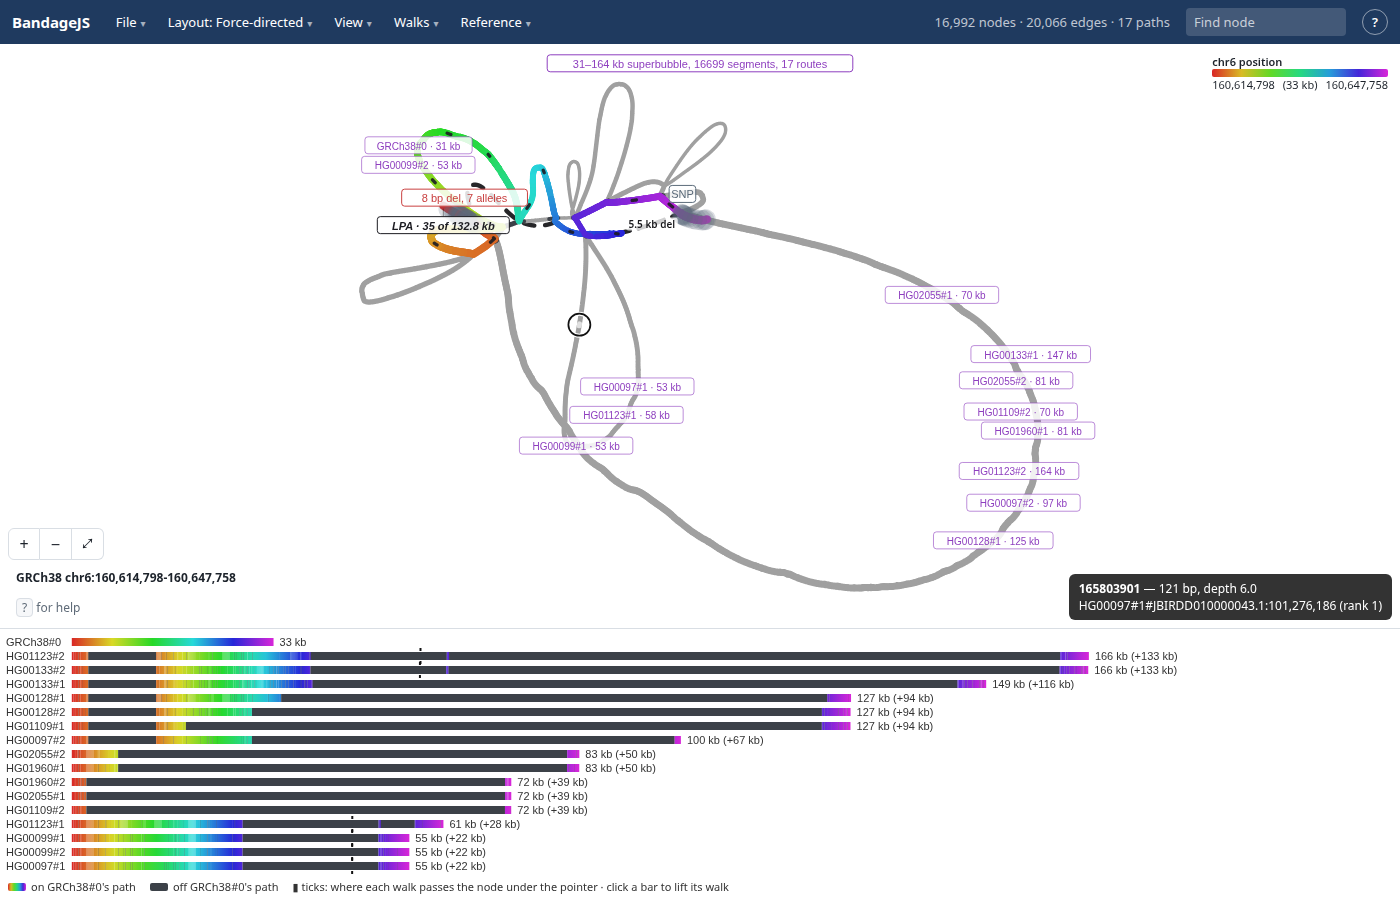
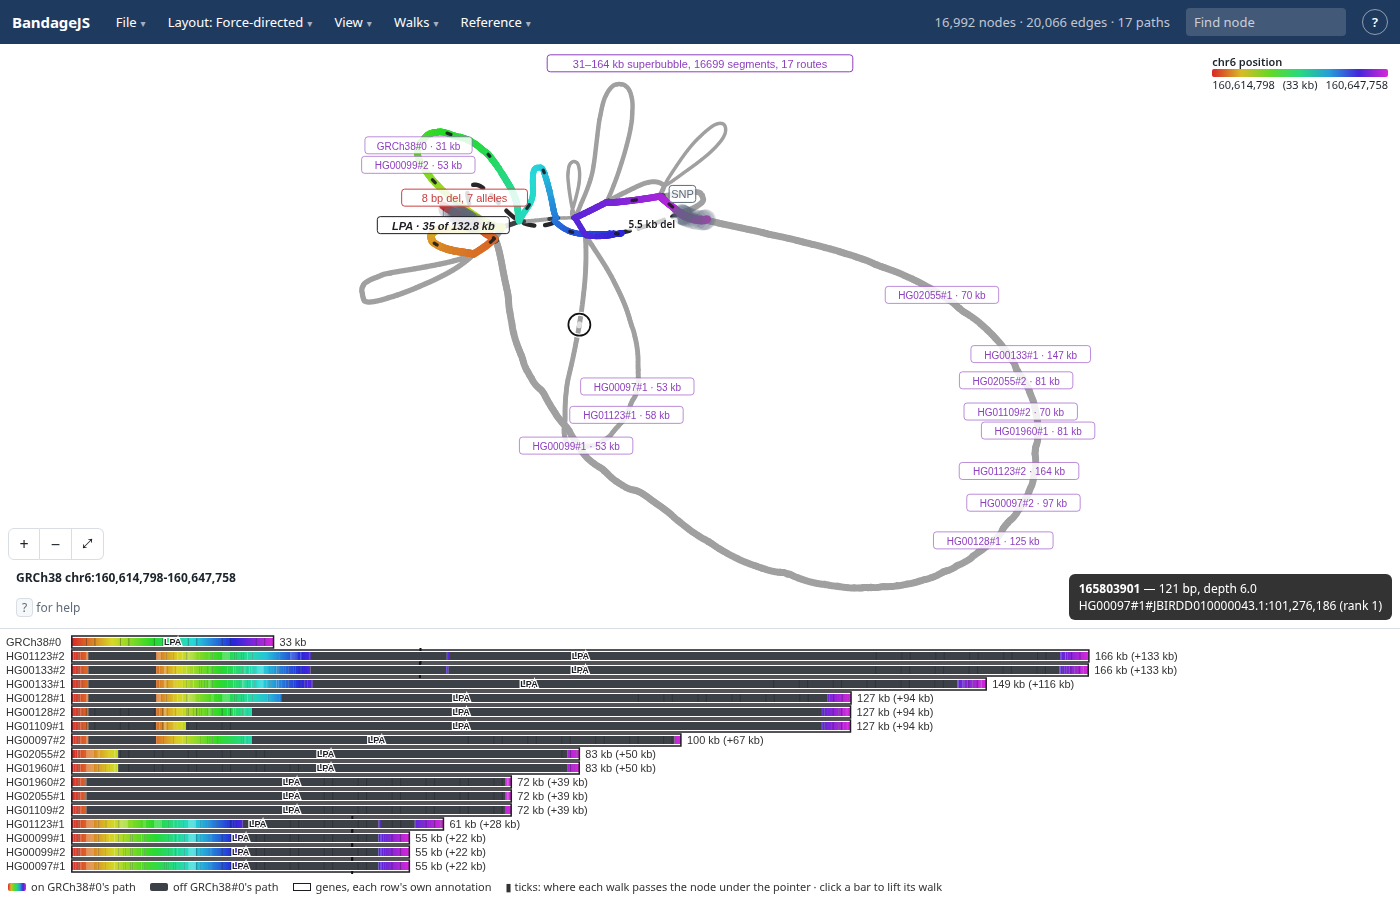
Walk rows under the graph box each haplotype's genes
The strip reads genes for its rows as the walk-rows layout does, and its
key notes where rows are too crowded to box them. Strip row picks in the
README script and e2e helper skip gene rects. kiv2_strip reshot with LPA.

Needs the core release with StripFrame.boxesGenes.

Changed region(s): [[0.0307, 0.6844, 0.7986, 0.9956]]

diff --git a/src/walkStrip.ts b/src/walkStrip.ts
@@ -12,17 +12,19 @@ import {
   walkStripFrame,
 } from '@jbrowse/bandage-core'
 
-import { memo } from './derived'
+import { memo, rowGenesOf } from './derived'
 import { svgDom } from './elDom'
 import { walkRowsKeyHtml } from './overlays'
-import { axis, current, facts, state, stripRows } from './state'
+import { axis, current, facts, settings, state, stripRows } from './state'
 import { ui } from './ui'
 import { onDraw, scheduleDraw } from './view'
 import { toggleWalk } from './walks'
 
 import type {
+  GeneGaps,
   Graph,
   GraphNode,
+  RowGene,
   StripFrame,
   WalkLayer,
   WalkRows,
@@ -53,10 +55,20 @@ const frameOf = memo((bars: WalkRows, width: number, maxHeight: number) => {
 const rampInterval = (ramp: Ramp) =>
   ramp && { start: ramp.start, end: ramp.start + ramp.span }
 
-const barsOf = memo((bars: WalkRows, frame: StripFrame, ramp: Ramp) =>
-  svgDom(
-    walkRowsTree(bars, frame, { ramp: rampInterval(ramp), idPrefix: 'strip' }),
-  ),
+const barsOf = memo(
+  (
+    bars: WalkRows,
+    frame: StripFrame,
+    ramp: Ramp,
+    rowGenes: Map<string, RowGene[]> | undefined,
+  ) =>
+    svgDom(
+      walkRowsTree(bars, frame, {
+        ramp: rampInterval(ramp),
+        rowGenes,
+        idPrefix: 'strip',
+      }),
+    ),
 )
 
 const marksOf = memo(
@@ -83,15 +95,21 @@ const labelsOf = memo(
 )
 
 const keyOf = memo(
-  (bars: WalkRows, ramp: Ramp) =>
+  (bars: WalkRows, ramp: Ramp, genes: GeneGaps | undefined) =>
     walkRowsKeyHtml(
       walkRowsKey(bars, {
         ramp: rampInterval(ramp),
         rampCss: RAMP_GRADIENT_CSS,
+        genes,
       }),
     ) +
     '<span>▮ ticks: where each walk passes the node under the pointer · click a bar to lift its walk</span>',
 )
+
+function geneNote(f: StripFrame, rowGenes?: Map<string, RowGene[]>) {
+  const note = rowGenes?.size ? state.walkGeneNote : undefined
+  return note && !f.boxesGenes ? { ...note, crowded: true } : note
+}
 
 function frame(bars: WalkRows) {
   return frameOf(
@@ -168,8 +186,11 @@ function drawStrip() {
   const f = frame(bars)
   const ramp = current().ramp
   const id = state.hoveredNode ?? state.selectedNode
+  const rowGenes = settings.showGenes
+    ? rowGenesOf(bars, state.genes, state.walkGenes)
+    : undefined
   const next = {
-    bars: barsOf(bars, f, ramp),
+    bars: barsOf(bars, f, ramp, rowGenes),
     marks: marksOf(
       bars,
       f,
@@ -177,7 +198,7 @@ function drawStrip() {
       id === null ? undefined : facts().nodeById.get(id),
     ),
     labels: labelsOf(bars, f, state.walkLayers),
-    key: keyOf(bars, ramp),
+    key: keyOf(bars, ramp, geneNote(f, rowGenes)),
     locator,
   }
   ui.stripSvg.setAttribute('width', String(f.width))

diff --git a/test/e2e/genes.spec.ts b/test/e2e/genes.spec.ts
@@ -131,24 +131,27 @@ test('RefSeq genes pin to the backbone of the LPA graph', async ({
   expect(geneRequests.some(u => u.endsWith('.csi'))).toBe(true)
 })
 
+// GRCh38 through LPA, and HG00099#1 through the one gene on its CTGX
+const HAPLOTYPE_GFA = [
+  'S 1 AAAAAAAAAA',
+  'S 2 CCCCCCCCCC',
+  'S 3 GGGGGGGGGG',
+  'S 4 TTTTTTTTTTTTTTT',
+  'L 1 + 2 + 0M',
+  'L 2 + 3 + 0M',
+  'L 1 + 4 + 0M',
+  'L 4 + 3 + 0M',
+  'W GRCh38 0 chr6 160560000 160560030 >1>2>3',
+  'W HG00099 1 CTGX 1000 1035 >1>4>3',
+]
+
 test("walk rows draw each haplotype's genes from its own assembly", async ({
   page,
 }) => {
   await openExampleText(
     page,
     'haplotype.gfa',
-    [
-      'S 1 AAAAAAAAAA',
-      'S 2 CCCCCCCCCC',
-      'S 3 GGGGGGGGGG',
-      'S 4 TTTTTTTTTTTTTTT',
-      'L 1 + 2 + 0M',
-      'L 2 + 3 + 0M',
-      'L 1 + 4 + 0M',
-      'L 4 + 3 + 0M',
-      'W GRCh38 0 chr6 160560000 160560030 >1>2>3',
-      'W HG00099 1 CTGX 1000 1035 >1>4>3',
-    ],
+    HAPLOTYPE_GFA,
     undefined,
     '&layout=walkrows',
   )
@@ -185,6 +188,28 @@ test("walk rows draw each haplotype's genes from its own assembly", async ({
   await page.keyboard.press('Escape')
   await expect(info).toBeHidden()
 
+  await (await viewItem(page, /Genes/)).click()
+  await expect(rowGenes).toHaveCount(0)
+})
+
+test("walk rows under the graph box each haplotype's genes", async ({
+  page,
+}) => {
+  await openExampleText(
+    page,
+    'haplotype.gfa',
+    HAPLOTYPE_GFA,
+    undefined,
+    '&layout=force',
+  )
+  await waitForDrawing(page, '4 nodes')
+  await (await viewItem(page, /^Walk rows under the graph/)).click()
+  await page.keyboard.press('Escape')
+  const rowGenes = page.locator('#strip-bars .row-gene')
+  await expect(rowGenes.locator('title')).toHaveText(['LPA', 'HAPGENE'])
+  await expect(page.locator('#strip-key')).toContainText(
+    "genes, each row's own annotation",
+  )
   await (await viewItem(page, /Genes/)).click()
   await expect(rowGenes).toHaveCount(0)
 })

diff --git a/src/derived.ts b/src/derived.ts
@@ -27,6 +27,7 @@ import type {
   NodeWidth,
   WalkLayer,
   WalkRow,
+  WalkRows,
 } from '@jbrowse/bandage-core'
 
 export const CONTIG_THICKNESS = 6
@@ -94,6 +95,27 @@ function onRow(row: WalkRow, genes: GeneModel[]) {
   )
 }
 
+// Each row's genes along its bar, as walk rows or the strip draws them: the
+// reference row's from the backbone's genes, the others' from their own
+export const rowGenesOf = memo(
+  (
+    bars: WalkRows | undefined,
+    genes: GeneModel[] | undefined,
+    walkGenes: Map<string, GeneModel[]> | undefined,
+  ) =>
+    bars
+      ? placeRowGenes(
+          [bars.reference, ...bars.rows],
+          new Map([
+            ...(walkGenes ?? []),
+            ...(genes
+              ? [[bars.reference.name, onRow(bars.reference, genes)] as const]
+              : []),
+          ]),
+        )
+      : undefined,
+)
+
 // What a layout draws besides its nodes, recomputed when the layout, its
 // positions or a setting it reads changes rather than per frame.
 export const drawnExtras = memo(
@@ -131,23 +153,7 @@ export const drawnExtras = memo(
           ? genePins(graph, genes, positions)
           : [],
       bars,
-      rowGenes:
-        showGenes && graph && bars
-          ? placeRowGenes(
-              [bars.reference, ...bars.rows],
-              new Map([
-                ...(walkGenes ?? []),
-                ...(genes
-                  ? [
-                      [
-                        bars.reference.name,
-                        onRow(bars.reference, genes),
-                      ] as const,
-                    ]
-                  : []),
-              ]),
-            )
-          : undefined,
+      rowGenes: showGenes ? rowGenesOf(bars, genes, walkGenes) : undefined,
       rowLabels: bars
         ? [bars.reference, ...bars.rows].map((row, i) => ({
             label: row.label,

diff --git a/src/genes.ts b/src/genes.ts
@@ -17,7 +17,7 @@ import {
   onBindingChange,
   referenceWindow,
 } from './reference'
-import { drawnMode, saveSettings, settings, state } from './state'
+import { drawnMode, saveSettings, settings, state, stripRows } from './state'
 import { scheduleDraw } from './view'
 
 import type { GeneSource, HubAssembly } from './hubConfig'
@@ -153,17 +153,17 @@ async function contigGenes(
 // How many walk rows a gene track is read for at once, the first rows down
 const WALK_GENE_ROWS = 40
 
-// The walk rows' genes, each row's from the gene track of the assembly the
-// bound hub names for its haplotype (`HG00097#1`), over the span of its own
-// contig the row's bar covers. The first WALK_GENE_ROWS rows with a track are
-// read.
+// The genes of walk rows, as the layout or the strip, each row's from the gene
+// track of the assembly the bound hub names for its haplotype (`HG00097#1`),
+// over the span of its own contig the row's bar covers. The first
+// WALK_GENE_ROWS rows with a track are read.
 function loadWalkGenes() {
   state.walkGenes = undefined
   state.walkGeneNote = undefined
   const graph = state.graph
   const b = binding()
   const bars =
-    drawnMode().value === 'walkrows' ? rowsOf(graph, state.region) : undefined
+    drawnMode().value === 'walkrows' ? rowsOf(graph, state.region) : stripRows()
   if (!settings.showGenes || !graph || !bars || b.status !== 'bound') {
     return
   }

diff --git a/src/menuItems.ts b/src/menuItems.ts
@@ -211,15 +211,25 @@ export function viewItems(): MenuItem[] {
         scheduleDraw()
       },
     },
-    toggle(
-      'Walk rows under the graph',
-      'walkStrip',
-      paths < 2
-        ? 'This graph has fewer than two walks'
-        : !mode.drawsNodes
-          ? `Not drawn under the ${mode.label} layout`
-          : undefined,
-    ),
+    {
+      ...toggle(
+        'Walk rows under the graph',
+        'walkStrip',
+        paths < 2
+          ? 'This graph has fewer than two walks'
+          : !mode.drawsNodes
+            ? `Not drawn under the ${mode.label} layout`
+            : undefined,
+      ),
+      onClick: () => {
+        settings.walkStrip = !settings.walkStrip
+        saveSettings()
+        if (!recut()) {
+          loadGenes()
+          rebuild()
+        }
+      },
+    },
   ]
 }
 

diff --git a/test/e2e/walkStrip.spec.ts b/test/e2e/walkStrip.spec.ts
@@ -16,7 +16,11 @@ async function showStrip(page: Page) {
 // The middle of the widest run on a strip row, in page pixels
 async function onRow(page: Page, row: number) {
   return page.locator('#strip-svg').evaluate((svg, i) => {
-    const rects = [...svg.querySelectorAll('#strip-bars rect')]
+    const rects = [
+      ...svg.querySelectorAll(
+        '#strip-bars [data-testid^="graph-walk-r"] > rect',
+      ),
+    ]
     const ys = [
       ...new Set(
         rects.map(
